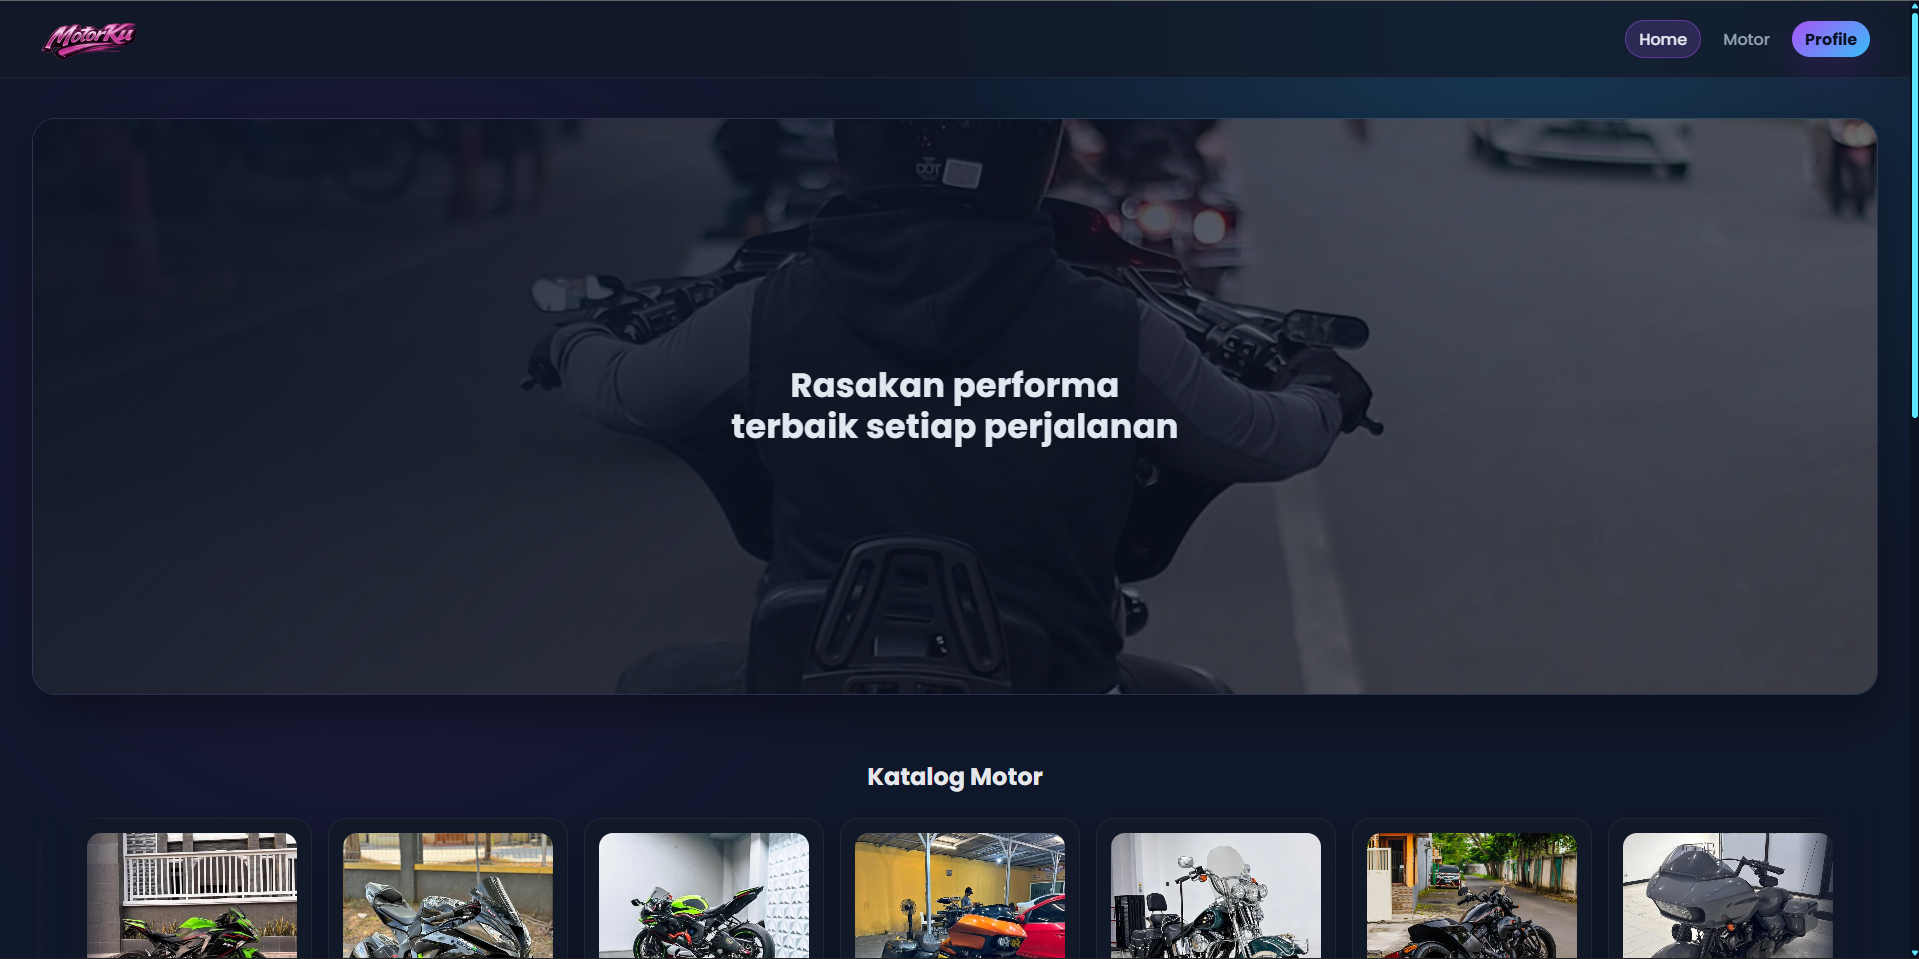
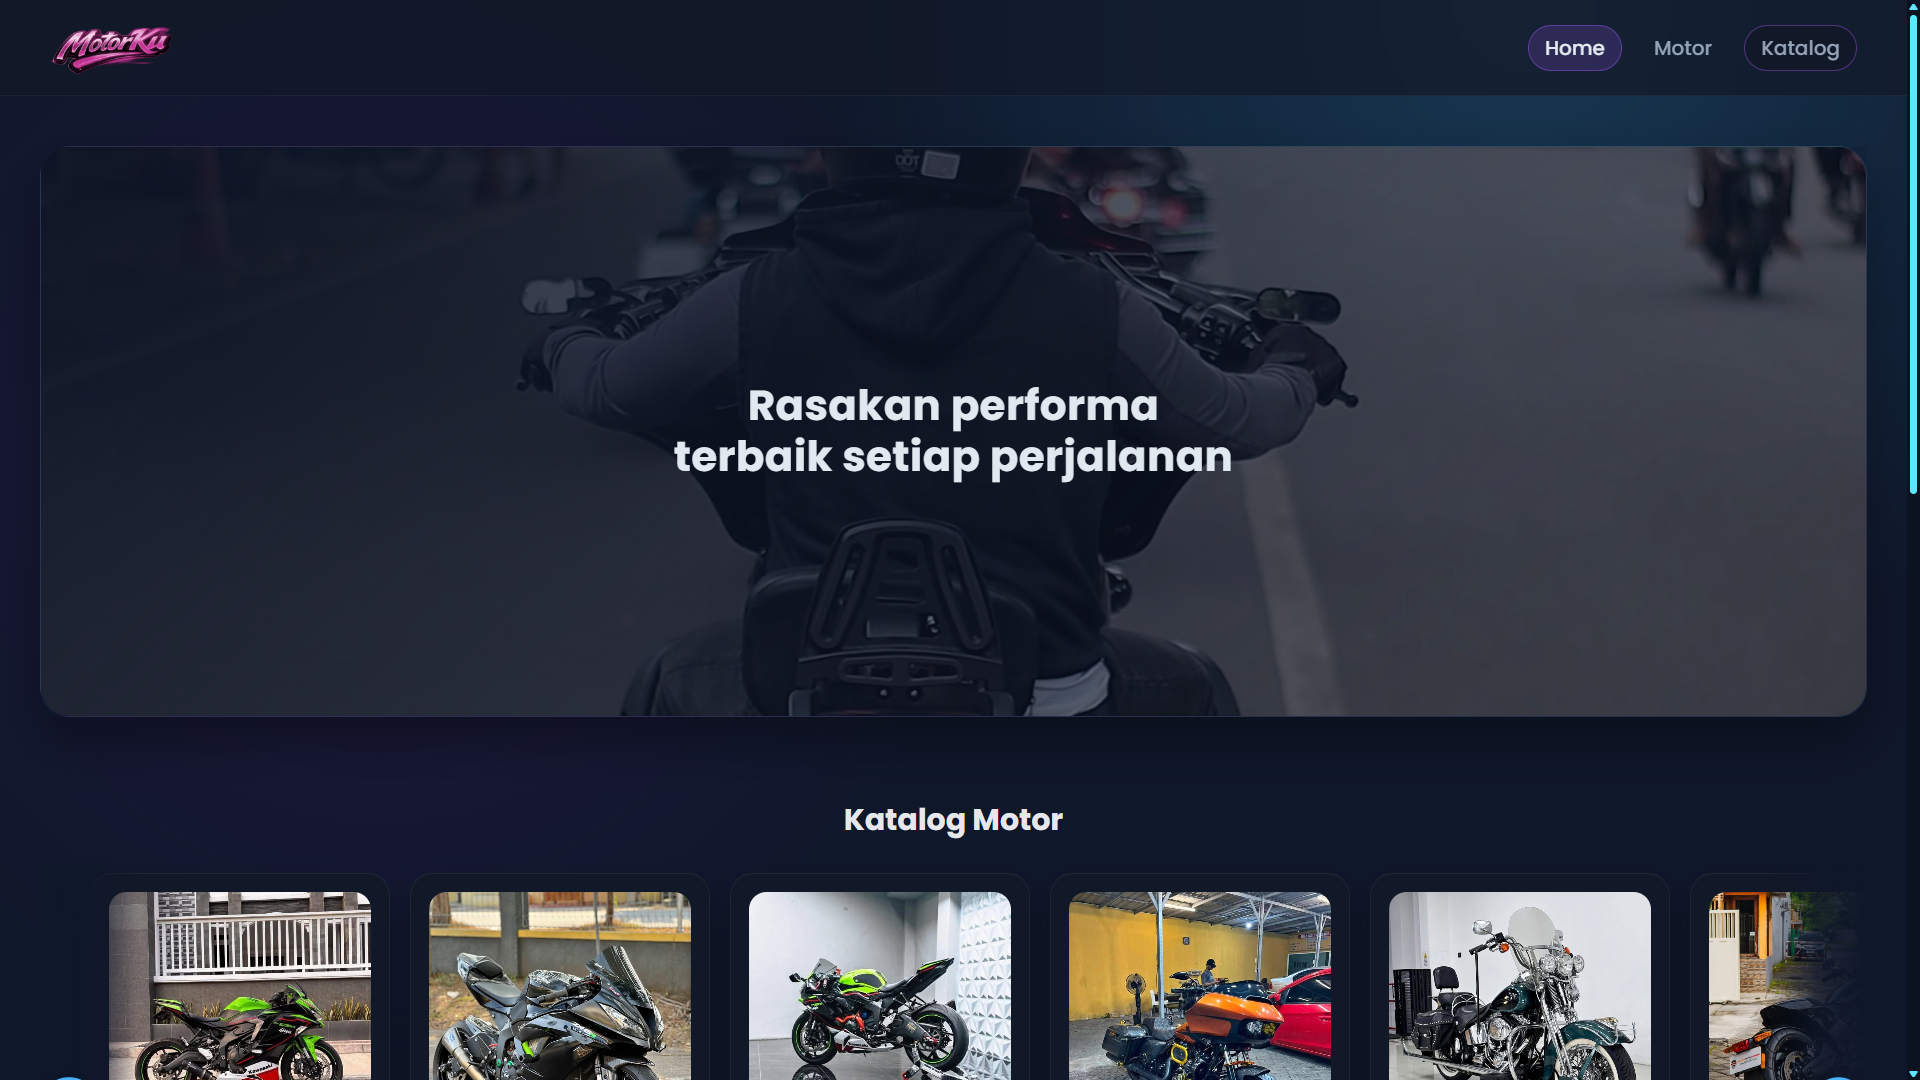
updt13

diff --git a/portfolio-web.html b/portfolio-web.html
@@ -43,6 +43,9 @@
           <a class="gallery-item reveal" style="--reveal-delay: 160ms" href="https://persela-store.vercel.app/" target="_blank" rel="noopener">
             <img src="images/portofolio/web/Screenshot%202025-12-27%20091020.png" alt="Website 2">
           </a>
+          <a class="gallery-item reveal" style="--reveal-delay: 240ms" href="https://rampfor.vercel.app/" target="_blank" rel="noopener">
+            <img src="images/portofolio/web/Screenshot%20(1218).png" alt="Screenshot 1218">
+          </a>
         </div>
       </section>
     </main>
